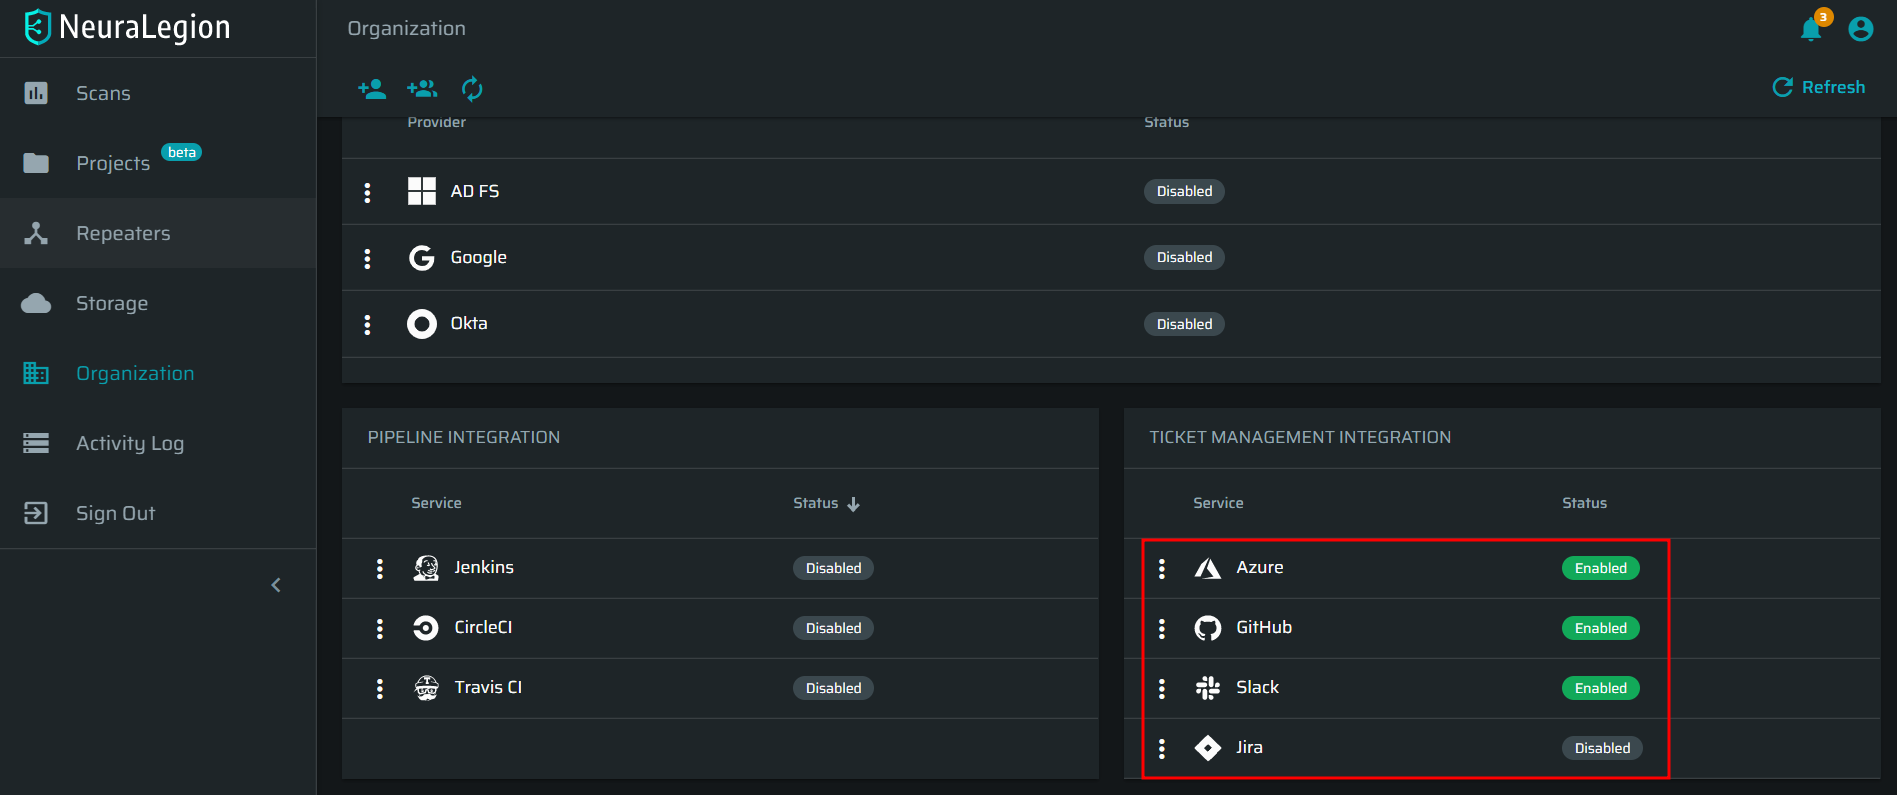
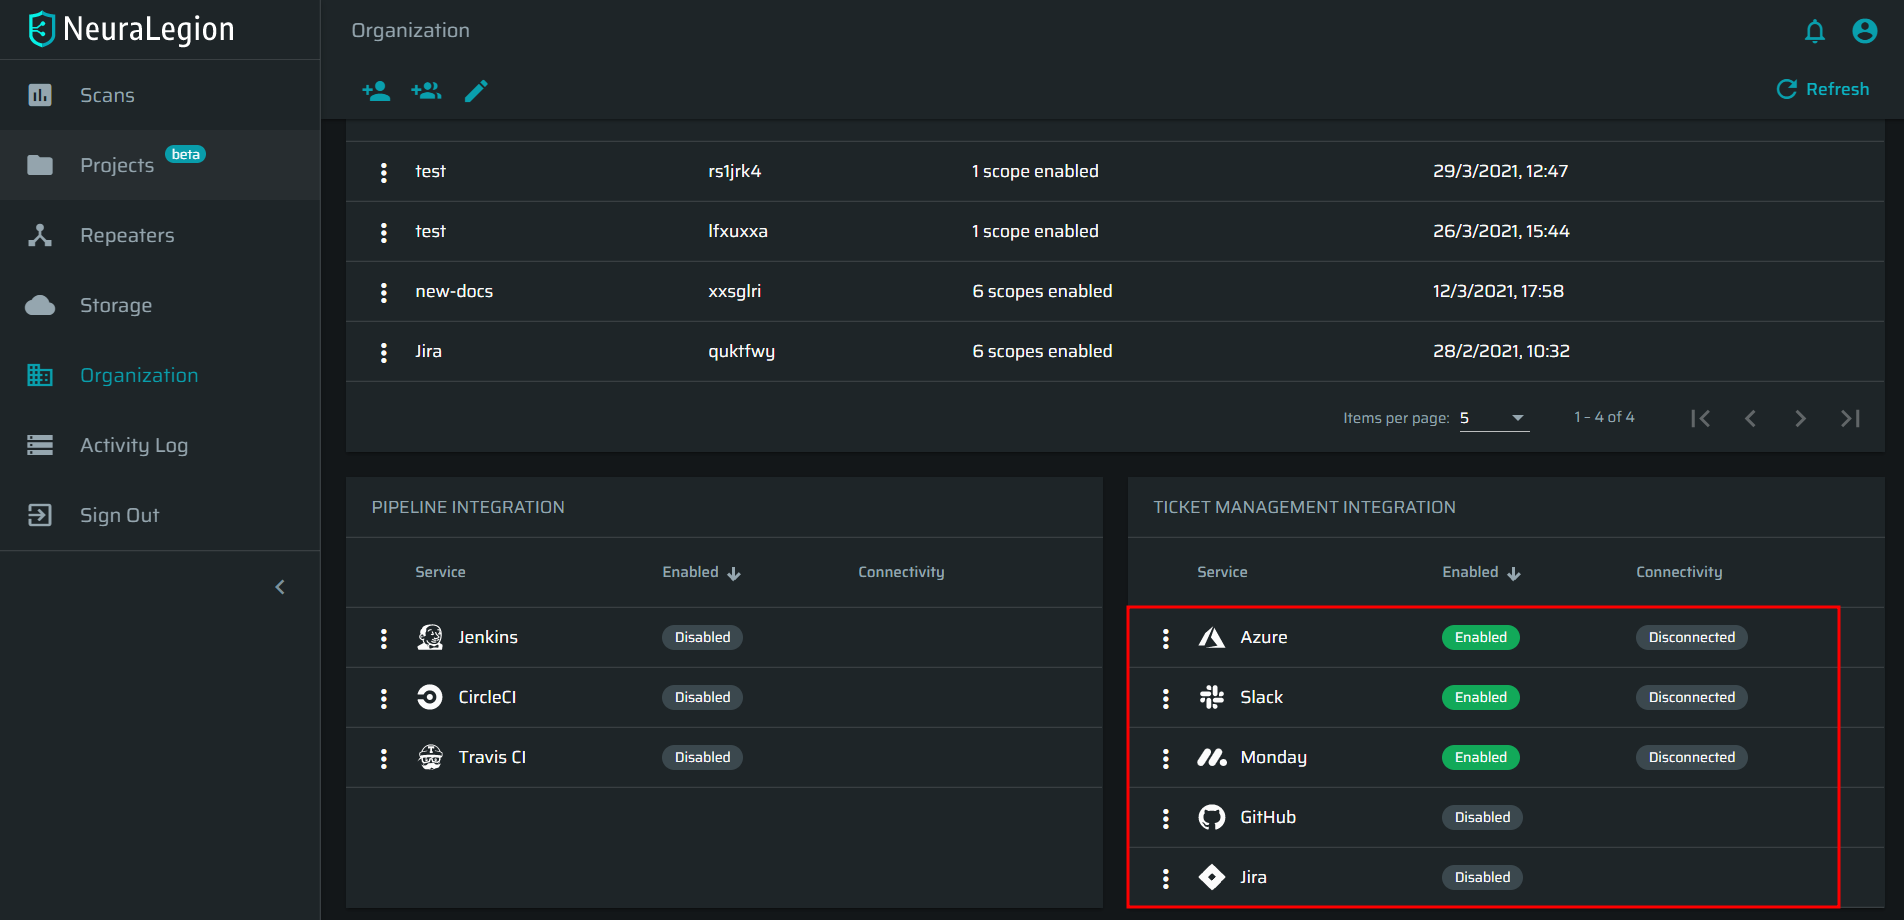
added monday integration

diff --git a/docs/guide/pipeline-integration/ticketing-systems/integrating-with-nexploit/monday.md b/docs/guide/pipeline-integration/ticketing-systems/integrating-with-nexploit/monday.md
@@ -1,0 +1,60 @@
+<table id="integrations" >
+  <tr>
+    <td width="70%">
+      <h1>Monday</h1>
+    </td>
+    <td width="30%" style="text-align:center" rowspan="3">
+      <img src="guide/pipeline-integration/ticketing-systems/integrating-with-nexploit/media/monday/monday-logo.png" width="200" height="250"></img>
+    </td>
+  </tr>
+  <tr>
+    <td style="text-align:left;vertical-align:text-top;padding:0px">
+      You can connect your Monday board (workspace) to a Nexploit scan to get all the discovered issues on automatically created Monday tickets. Nexploit opens each new ticket for one specific issue and provides the following information:
+      <ul>
+        <li>Issue severity level</li>
+        <li>Details of discovery</li>
+        <li>Possible exposure</li>
+        <li>Remediation suggestions </li>
+      </ul>
+      For each new scan, you can select any of your Monday boards integrated with your NexPloit projects.
+    </td>
+  </tr>
+  <tr><td></td></tr>
+</table>
+
+
+## Prerequisites
+
+* You are an active user on [nexploit.app](https://nexploit.app/). 
+
+## Step-by-Step Guide
+
+### Connect Nexploit to Your Monday Account
+To enable the integration, you need to connect Nexploit to your Monday account first: 
+
+1. Go to [nexploit.app](https://nexploit.app).
+2. In the left pane, select **Organization**. 
+3. On the **Organization** page, scroll down to the **TICKET MANAGEMENT INTEGRATION** section.
+
+    ![org-ticketing](media/monday/org-ticketing.png ':size=45%')
+
+4. Click ![dots-button](media/azure/icon-button.png ':size=2%') next to **Monday**, and then select **Settings**.
+
+    ![monday-settings](media/monday/monday-settings.png ':size=45%')
+
+5. On the popup, click **Connect**.
+
+    ![monday-connect](media/monday/monday-connect.png ':size=45%')
+
+6. In the upper right corner, select the Monday account to be connected to Nexploit, and then click **Authorize**.
+
+    ![monday-authorize](media/monday/monday-authorize.png ':size=45%')
+
+    The Nexploit integration with Monday is enabled.
+
+    ![enabled](media/monday/monday-enabled.png ':size=45%')
+
+### Configure Nexploit Integration with Azure projects 
+After you have connected NexpPloit to your Monday account, you need to integrate one or multiple Monday boards with the NexPloit project to be used for the scan. The integration allows NexPloit to automatically provide the scan reports on the associated Monday boards.  
+
+To integrate a specific Nexploit project with your Monday boards, follow [these steps](guide/pipeline-integration/ticketing-systems/adding-to-project/integrating-with-project.md).

diff --git a/docs/guide/pipeline-integration/ticketing-systems/adding-to-project/integrating-with-project.md b/docs/guide/pipeline-integration/ticketing-systems/adding-to-project/integrating-with-project.md
@@ -5,7 +5,7 @@ The project integration configuration allows you to select any of the repositori
 
 ## Prerequisites <!-- {docsify-ignore} -->
 * You are an active user on [nexploit.app](https://nexploit.app/).
-* The Nexploit is connected to your ticketing systems with the repositories that you want to add to a certain project.
+* The Nexploit is connected to your ticketing systems with the repositories you want to add to a certain project.
 
     ![repositories-enabled](media/repositories-enabled.png ':size=45%')
 
@@ -13,7 +13,7 @@ The project integration configuration allows you to select any of the repositori
 ### Configure the Nexploit Project Integration <!-- {docsify-ignore} -->
 1. In the **TICKET MANAGEMENT INTEGRATION section**, click ![dots-button](media/icon-button.png ':size=2%') next to the ticketing system you need, and then select **Project Settings**.
 
-    ![azure-settings](media/azure-settings.png ':size=45%')
+    ![project-settings](media/project-settings.png ':size=45%')
 
 2. On the **Projects Integration Config** popup, do the following:
     * In the **Project field**, enter or select the Nexploit project that you want to use for the scan.
@@ -30,7 +30,7 @@ The project integration configuration allows you to select any of the repositori
       *   To select the number of associated repositories that you can view on one **REPOSITORIES** page, use the **Items per page** dropdown list.
       *   To switch between the **REPOSITORIES** pages, use the navigation buttons above **Close**.  
 
-  ![project-selection](media/project-selection.png ':size=45%')
+ ![project-selection](media/project-selection.png ':size=45%')
 
 3. Once you complete the projects integration configuration, click **Close** at the bottom of the popup.
 

diff --git a/docs/guide/pipeline-integration/ticketing-systems/ticketing-overview.md b/docs/guide/pipeline-integration/ticketing-systems/ticketing-overview.md
@@ -8,5 +8,6 @@ To enable Nexploit to send the scan reports to multiple repositories (projects, 
     * [GitHub](guide/pipeline-integration/ticketing-systems/integrating-with-nexploit/github.md)
     * [Slack](guide/pipeline-integration/ticketing-systems/integrating-with-nexploit/slack.md)
     * [Azure Boards](guide/pipeline-integration/ticketing-systems/integrating-with-nexploit/azure.md)
+    * [Monday](guide/pipeline-integration/ticketing-systems/integrating-with-nexploit/monday.md)
 
 2. Associate the connected repository(es) with a specific Nexploit project, and then add the associated repositories to a new scan within the specified project. To do that, go to the [Adding to Nexploit Project](guide/pipeline-integration/ticketing-systems/adding-to-project.md) section.

diff --git a/docs/_sidebar.md b/docs/_sidebar.md
@@ -83,6 +83,7 @@
         - [GitHub](guide/pipeline-integration/ticketing-systems/integrating-with-nexploit/github.md)
         - [Slack](guide/pipeline-integration/ticketing-systems/integrating-with-nexploit/slack.md)
         - [Azure Boards](guide/pipeline-integration/ticketing-systems/integrating-with-nexploit/azure.md)
+        - [Monday](guide/pipeline-integration/ticketing-systems/integrating-with-nexploit/monday.md)
       - [Adding to Nexploit Project](guide/pipeline-integration/ticketing-systems/adding-to-project/integrating-with-project.md)
     - [**CI Pipelines**](guide/pipeline-integration/pipe-management/pipelines-overview.md)
       - [GitHub Actions](guide/pipeline-integration/pipe-management/github-actions.md)

diff --git a/docs/guide/pipeline-integration/pipeline-integration.md b/docs/guide/pipeline-integration/pipeline-integration.md
@@ -39,9 +39,9 @@ Nexploit enables integrations with the following tools and platforms:
     <td style="text-align:center"><a href="#/guide/pipeline-integration/pipe-management/azure-devops.md">Azure Pipelines</a></td>
   </tr>
 
-<tr>
+  <tr>
     <td></td>
-    <td></td>
+     <td style="text-align:center"><a href="#/guide/pipeline-integration/ticketing-systems/integrating-with-nexploit/monday.md">Monday</a></td>
     <td style="text-align:center"><a href="#/guide/pipeline-integration/pipe-management/travis/use-cases.md">Travis CI</a></td>
   </tr>
 
